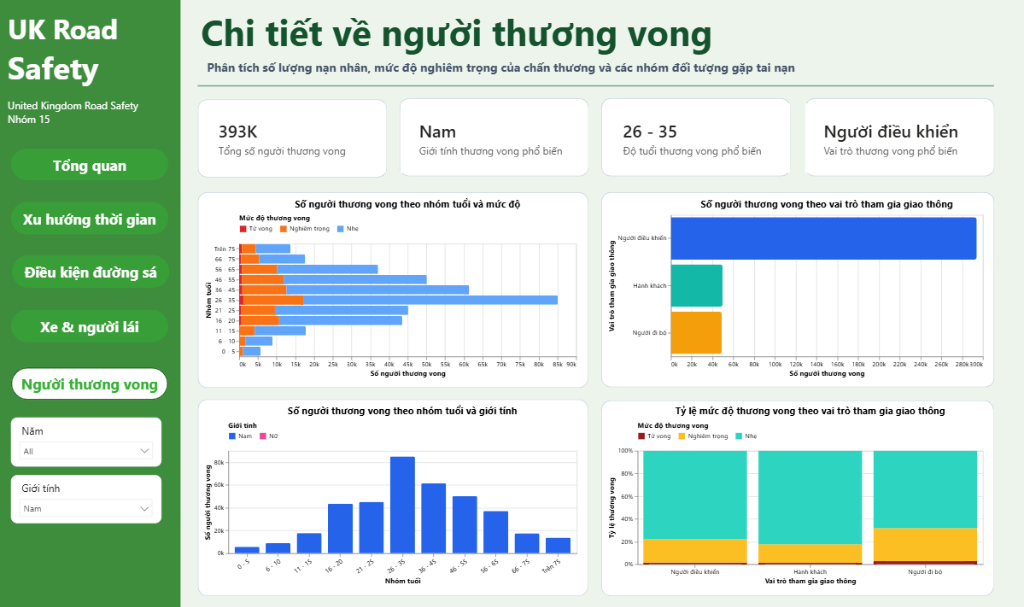
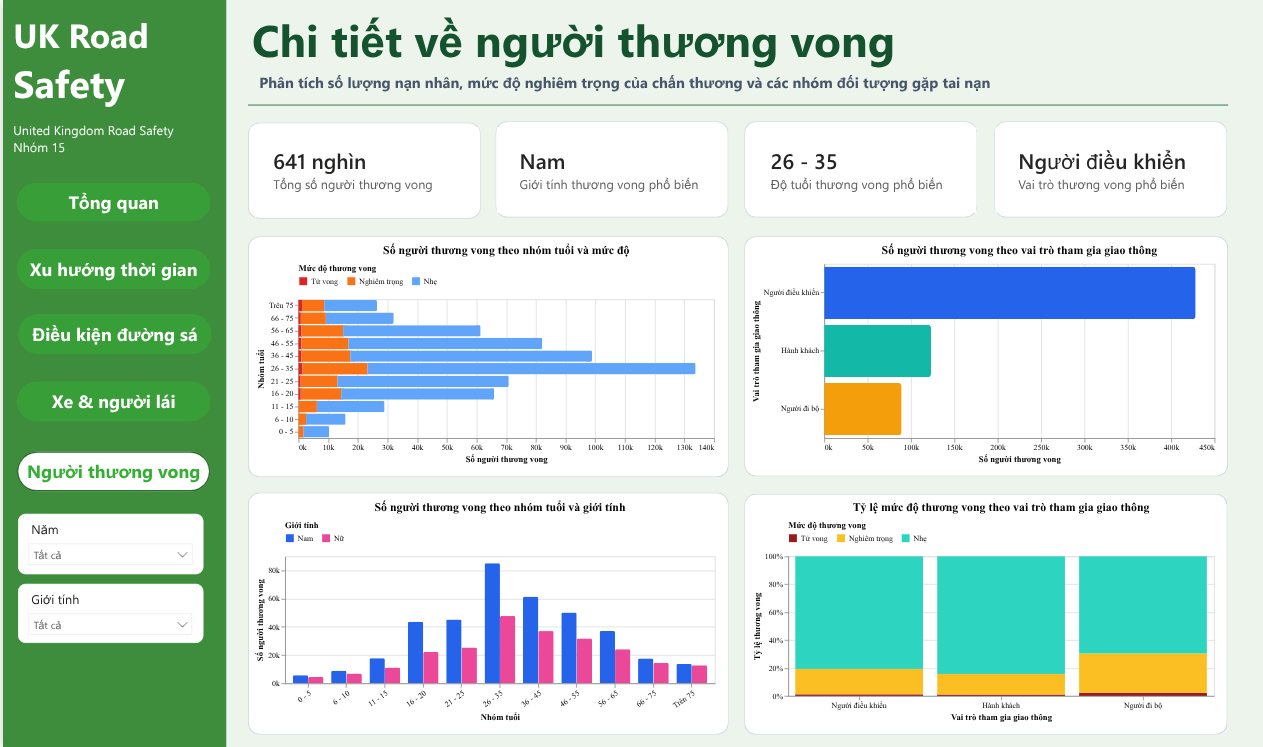
add memberD script and update dashboard page5
- Add presentation script for casualties & risk groups section (memberD)
- Update dashboard_page5.png screenshot
- Update compiled PDF report and submission package

diff --git a/docs/memberD_script.md b/docs/memberD_script.md
@@ -1,0 +1,31 @@
+# Script trình bày — Phần 4: Người thương vong và nhóm rủi ro
+
+> **Ngôi xưng:** em / thầy  
+> **Thời lượng ước tính:** 2–2,5 phút (~300 từ)  
+> **Trang dashboard:** Trang 5 — "Chi tiết về người thương vong"
+
+---
+
+Dạ thưa thầy, em tên là **Phạm Quang Vinh**, MSSV **23120237**. Em phụ trách phần phân tích **Người thương vong và nhóm rủi ro** — trang thứ 5 trong dashboard.
+
+---
+
+Nhìn vào các thẻ KPI, trong giai đoạn 2020–2024, tổng số người thương vong là **640 nghìn người**, trong đó **Nam chiếm khoảng 393 nghìn (~61%)**, nhóm tuổi phổ biến nhất là **26–35** và vai trò phổ biến nhất là **Người điều khiển phương tiện**.
+
+---
+
+**Biểu đồ thứ nhất** — thương vong theo vai trò — cho thấy **Người điều khiển** chiếm ~428 nghìn người, gấp gần 5 lần **Người đi bộ** (~89 nghìn). Tuy nhiên, số lượng thấp không có nghĩa là Người đi bộ ít rủi ro hơn.
+
+**Biểu đồ thứ hai** — thương vong theo nhóm tuổi và mức độ — cho thấy nhóm **26–35** có tổng thương vong cao nhất (~134 nghìn). Đáng chú ý, ở các nhóm **cao tuổi** (66 tuổi trở lên), tỷ lệ phần Nghiêm trọng và Tử vong chiếm tỉ trọng lớn hơn rõ rệt so với tổng thanh, cho thấy người cao tuổi khi gặp tai nạn thường chịu hậu quả nặng hơn.
+
+**Biểu đồ thứ ba** — theo nhóm tuổi và giới tính — cho thấy cột **Nam luôn cao hơn Nữ** ở mọi nhóm tuổi, đặc biệt rõ ở nhóm 26–35 (Nam ~85 nghìn, Nữ ~48 nghìn).
+
+**Biểu đồ thứ tư** — tỷ lệ mức độ theo vai trò — là biểu đồ quan trọng nhất: khi quy về 100%, **Người đi bộ** có tỷ lệ Nghiêm trọng và Tử vong lên tới **~30%**, cao hơn hẳn Người điều khiển (~20%) và Hành khách (~15%). Người đi bộ là nhóm dễ bị tổn thương nhất vì không có bất kỳ lớp bảo vệ nào từ thân xe.
+
+---
+
+Tóm lại, em xác định **ba nhóm rủi ro** chính: **Nam giới 26–35 tuổi** nhiều nhất về số lượng, **Người đi bộ** nguy hiểm nhất về tỷ lệ hậu quả, và **người cao tuổi** chịu thương vong nặng hơn khi gặp nạn. Dashboard có bộ lọc Năm và Giới tính để phân tích sâu hơn theo từng phân khúc. Em xin cảm ơn thầy.
+
+---
+
+*— Phạm Quang Vinh, MSSV 23120237*